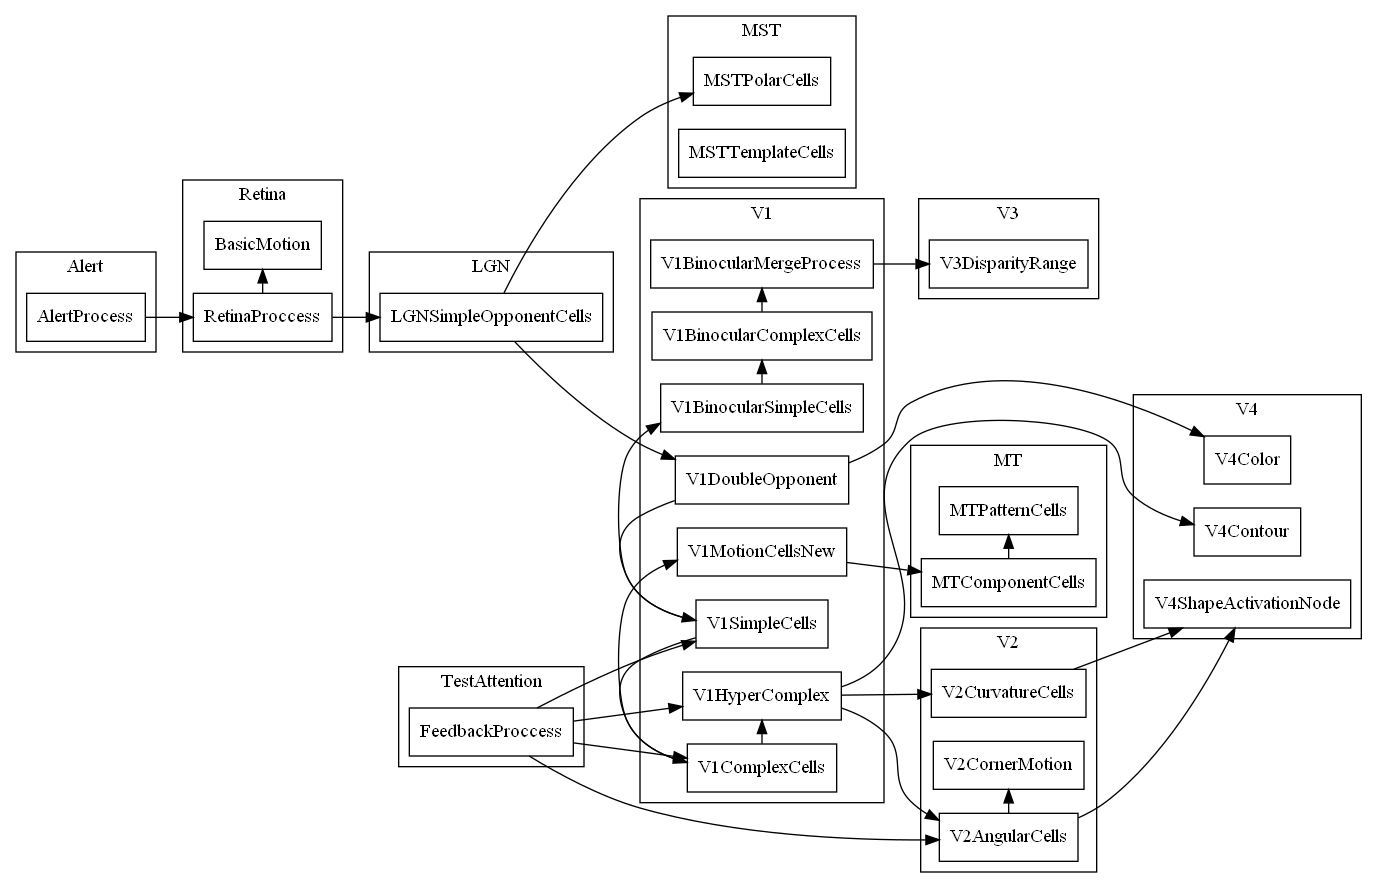
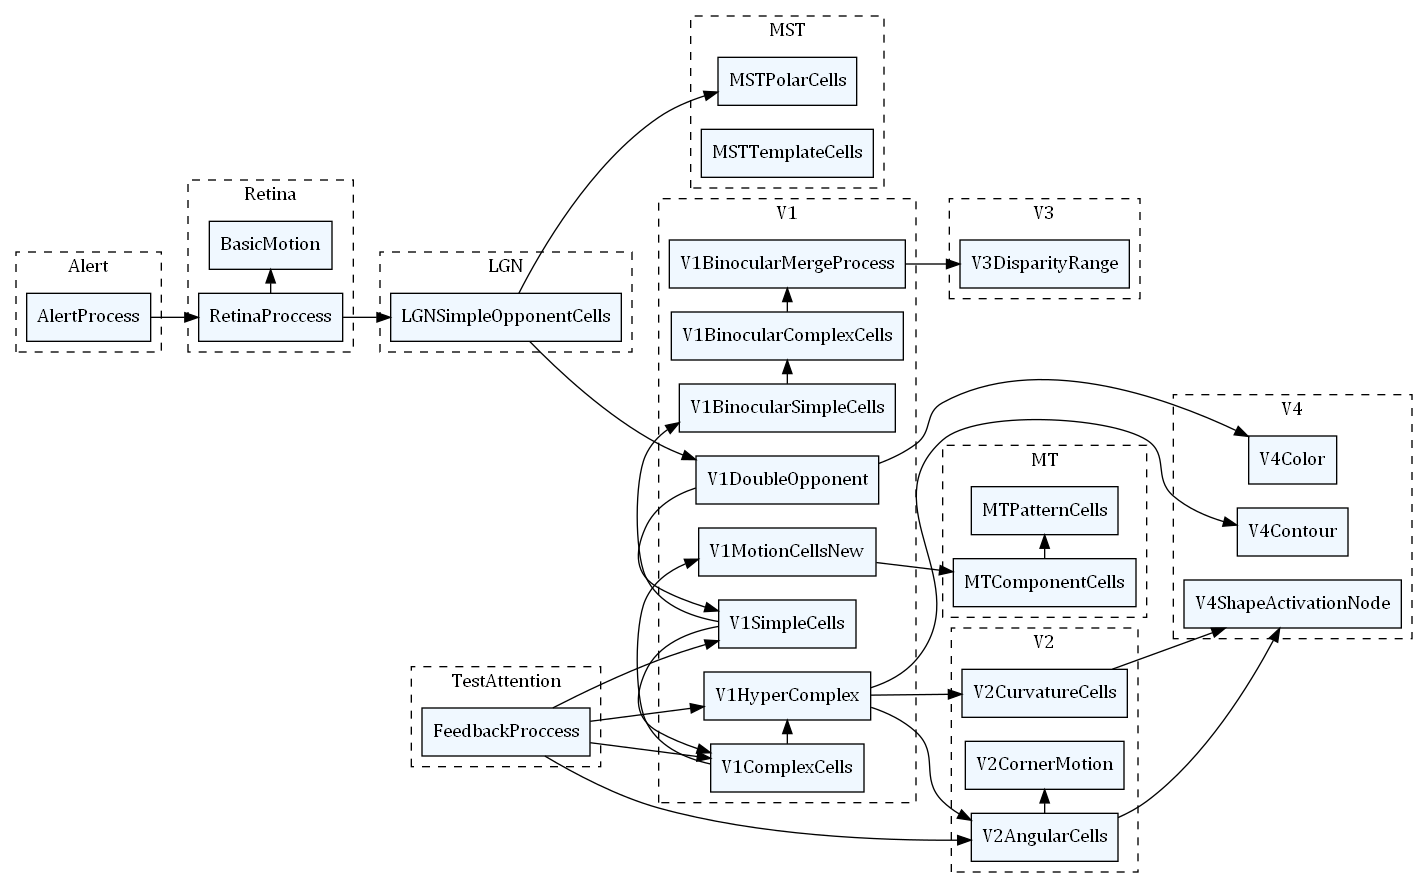
graphs corrected and style added

diff --git a/middlewareVision/src/generator/graph/MGraph.java b/middlewareVision/src/generator/graph/MGraph.java
@@ -112,8 +112,8 @@ public class MGraph {
 
     static void generateNodeGraph() {
         String c = "graph G{\n";
-        String l1 = "[ label=\"@name\" shape=\"circle\" ]";
-        String l2 = "[ label=\"@name\" shape=\"octagon\" ]";
+        String l1 = "[ label=\"@name\" "+FileUtils.readFile(new File("style/styleNodeDiagram_Area.txt"))+" ]";
+        String l2 = "[ label=\"@name\" "+FileUtils.readFile(new File("style/styleNodeDiagram_Process.txt"))+" ]";
         for (GArea ga : areas) {
             c = c + ga.name + " " + l1.replace("@name", ga.name) + "\n";
             for (String nodes : ga.smallNodes) {
@@ -142,7 +142,7 @@ public class MGraph {
         c = c + "rankdir=\"LR\"" + "\nnewrank=\"true\" \n";
         for (GSmallNode n : nodes) {
             if (allSmallNodes.contains(n.name)) {
-                c = c + n.name + " [ shape=\"rectangle\" ] \n";
+                c = c + n.name + " [ "+FileUtils.readFile(new File("style/styleProcessDiagram_Process.txt"))+" ] \n";
             }
         }
         c = c + "\n\n";
@@ -155,7 +155,8 @@ public class MGraph {
         }
 
         for (GArea ga : areas) {
-            c = c + "\nsubgraph cluster" + ga.name + " {\n label=\"" + ga.name + "\"\nrank=\"same\"\n";
+            c = c + "\nsubgraph cluster" + ga.name + " {\n label=\"" + ga.name + "\"\nrank=\"same\"\n"+
+                    FileUtils.readFile(new File("style/styleProcessDiagram_Area.txt"))+"\n";
             for (String nodes : ga.smallNodes) {
                 c = c + nodes + "\n";
             }
